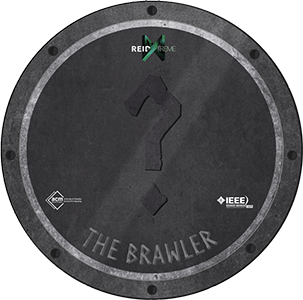
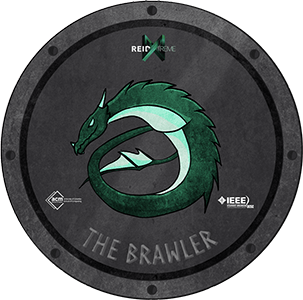
Updated website Updated Badges Form is hidden when registrations are closed Countdown displays message when registrations are closed Minor changes

Changed region(s): [[0.2376, 0.24, 0.8317, 0.75], [0.0594, 0.06, 0.9505, 0.96]]

diff --git a/src/components/Register/Register.js b/src/components/Register/Register.js
@@ -5,6 +5,9 @@ import { useDispatch } from "react-redux";
 // API
 import { createTeam } from "../../actions/teams";
 
+// data
+import { countdownTo } from "../../data";
+
 import Team from "./components/Team";
 import Member from "./components/Member";
 import Egg from "./assets/egg.png";
@@ -139,45 +142,60 @@ const Register = () => {
   const nextPage = () =>
     setPage((oldPage) => (oldPage < 3 ? oldPage + 1 : oldPage));
 
+  // Checks if registrations are closed
+  const isClosed = () => new Date() > new Date(countdownTo);
+
   return (
     <section id="register" className="register">
       <Container>
         <div className="register-row">
           <div className="register-form">
-            <h1 className="section-title">REGISTER</h1>
-            <Form onSubmit={(e) => e.preventDefault()}>
-              <div
-                className={animate ? "fade-in" : ""}
-                onAnimationEnd={() => setAnimate(false)}
-              >
-                {formElement}
-              </div>
-              <div className="form-button-group">
-                <button
-                  className="form-button"
-                  onClick={prevPage}
-                  disabled={page === 0}
-                >
-                  Previous
-                </button>
+            {
+              // Checking if registration is closed
+              !isClosed() ? (
+                <>
+                  <h1 className="section-title">REGISTER</h1>
+                  <Form onSubmit={(e) => e.preventDefault()}>
+                    <div
+                      className={animate ? "fade-in" : ""}
+                      onAnimationEnd={() => setAnimate(false)}
+                    >
+                      {formElement}
+                    </div>
+                    <div className="form-button-group">
+                      <button
+                        className="form-button"
+                        onClick={prevPage}
+                        disabled={page === 0}
+                      >
+                        Previous
+                      </button>
 
-                <button
-                  className="form-button"
-                  onClick={nextPage}
-                  disabled={page === 3}
-                >
-                  Next
-                </button>
+                      <button
+                        className="form-button"
+                        onClick={nextPage}
+                        disabled={page === 3}
+                      >
+                        Next
+                      </button>
 
-                <button
-                  className="form-button form-submit"
-                  onClick={handleSubmit}
-                >
-                  Submit
-                </button>
-              </div>
-              <ResponseMessage />
-            </Form>
+                      <button
+                        className="form-button form-submit"
+                        onClick={handleSubmit}
+                      >
+                        Submit
+                      </button>
+                    </div>
+                    <ResponseMessage />
+                  </Form>
+                </>
+              ) : (
+                <div className="register-closed">
+                  <div>REGISTRATIONS ARE</div>{" "}
+                  <div className="register-closed-word">CLOSED</div>
+                </div>
+              )
+            }
           </div>
           <div className="register-image-wrapper">
             {/* <div className="empty-div"></div> */}

diff --git a/src/components/Countdown/Countdown.js b/src/components/Countdown/Countdown.js
@@ -19,17 +19,25 @@ const CountdownNumber = ({ num, label }) => {
 const Countdown = () => {
   // Countdown
   const countdownRender = ({ days, hours, minutes, seconds, completed }) => {
-    return (
-      <div className="countdown-timer">
-        <CountdownNumber num={days} label="DAYS" />
-        <div>:</div>
-        <CountdownNumber num={hours} label="HOURS" />
-        <div>:</div>
-        <CountdownNumber num={minutes} label="MINUTES" />
-        <div>:</div>
-        <CountdownNumber num={seconds} label="SECONDS" />
-      </div>
-    );
+    if (!completed) {
+      return (
+        <div className="countdown-timer">
+          <CountdownNumber num={days} label="DAYS" />
+          <div>:</div>
+          <CountdownNumber num={hours} label="HOURS" />
+          <div>:</div>
+          <CountdownNumber num={minutes} label="MINUTES" />
+          <div>:</div>
+          <CountdownNumber num={seconds} label="SECONDS" />
+        </div>
+      );
+    } else {
+      return (
+        <div className="countdown-completed">
+          REGISTRATIONS ARE <span className="countdown-closed">CLOSED</span>
+        </div>
+      );
+    }
   };
 
   return (

diff --git a/src/components/Register/styles.css b/src/components/Register/styles.css
@@ -171,6 +171,21 @@
   /* margin-right: -100px; */
 }
 
+/* When registrations are closed */
+.register-closed {
+  height: 100%;
+  display: flex;
+  flex-direction: column;
+  justify-content: center;
+  font-size: 1.5rem;
+  font-weight: bold;
+  letter-spacing: 0.2rem;
+}
+.register-closed-word {
+  color: var(--green);
+  font-size: 1.75rem;
+}
+
 @media screen and (max-width: 991px) {
   .register .form-sub-group-wrapper {
     flex-direction: column;

diff --git a/src/components/Countdown/styles.css b/src/components/Countdown/styles.css
@@ -68,13 +68,23 @@
   color: var(--green);
 }
 
+.countdown-completed {
+  padding-top: 1rem;
+  font-size: 3rem;
+  font-weight: bold;
+  letter-spacing: 0.2rem;
+}
+.countdown-closed {
+  color: red;
+}
+
 @keyframes pulse {
   0% {
     opacity: 1;
     top: 0.5rem;
   }
   50% {
-    opacity: 0.2;
+    opacity: 0.5;
     top: 0rem;
   }
   100% {

diff --git a/src/components/Badges/Badges.js b/src/components/Badges/Badges.js
@@ -75,8 +75,8 @@ const Badges = () => {
   return (
     <section id="badges" className="badges">
       <Container>
+        <h1 className="section-title">BADGES</h1>
         <Fade>
-          <h1 className="section-title">BADGES</h1>
           <Row className="badges-group">
             <Col className="badges-preview" lg={6}>
               <div

diff --git a/src/components/Badges/styles.css b/src/components/Badges/styles.css
@@ -1,10 +1,11 @@
 .badges {
-  background: url("assets/bg.jpg");
+  background: linear-gradient(rgba(0, 0, 0, 0.6), transparent 20%),
+    url("assets/bg.jpg");
   background-repeat: no-repeat;
   background-size: cover;
   background-position: center;
   color: white;
-  padding: 6rem 0rem;
+  padding: 8rem 0rem;
 }
 
 .badges .section-title {

diff --git a/src/components/Prizes/styles.css b/src/components/Prizes/styles.css
@@ -2,7 +2,7 @@
   padding: 6rem 0rem;
   background: rgb(32, 98, 56);
   background: linear-gradient(
-    149deg,
+    130deg,
     rgba(32, 98, 56, 1) 0%,
     rgba(0, 34, 12, 1) 100%
   );
